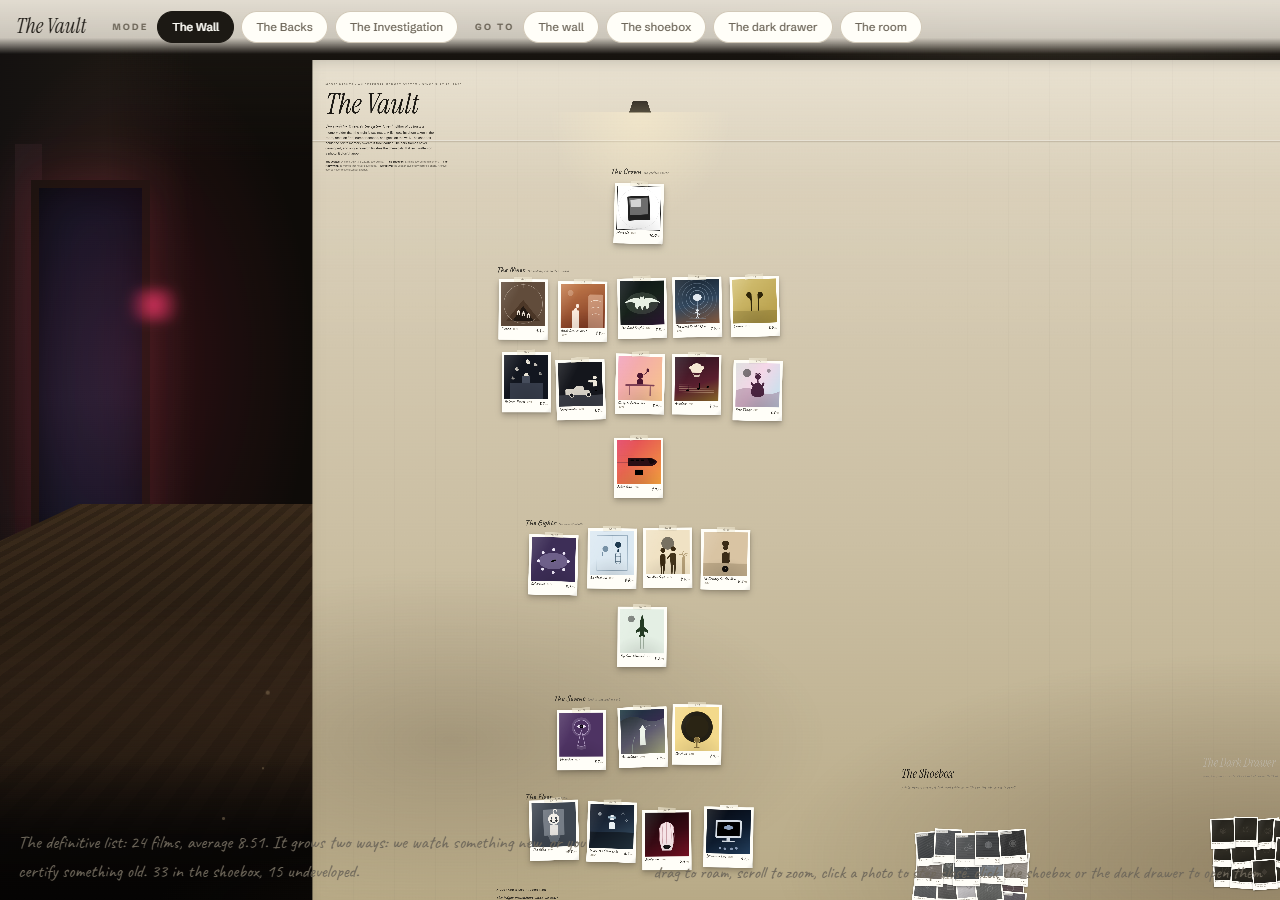
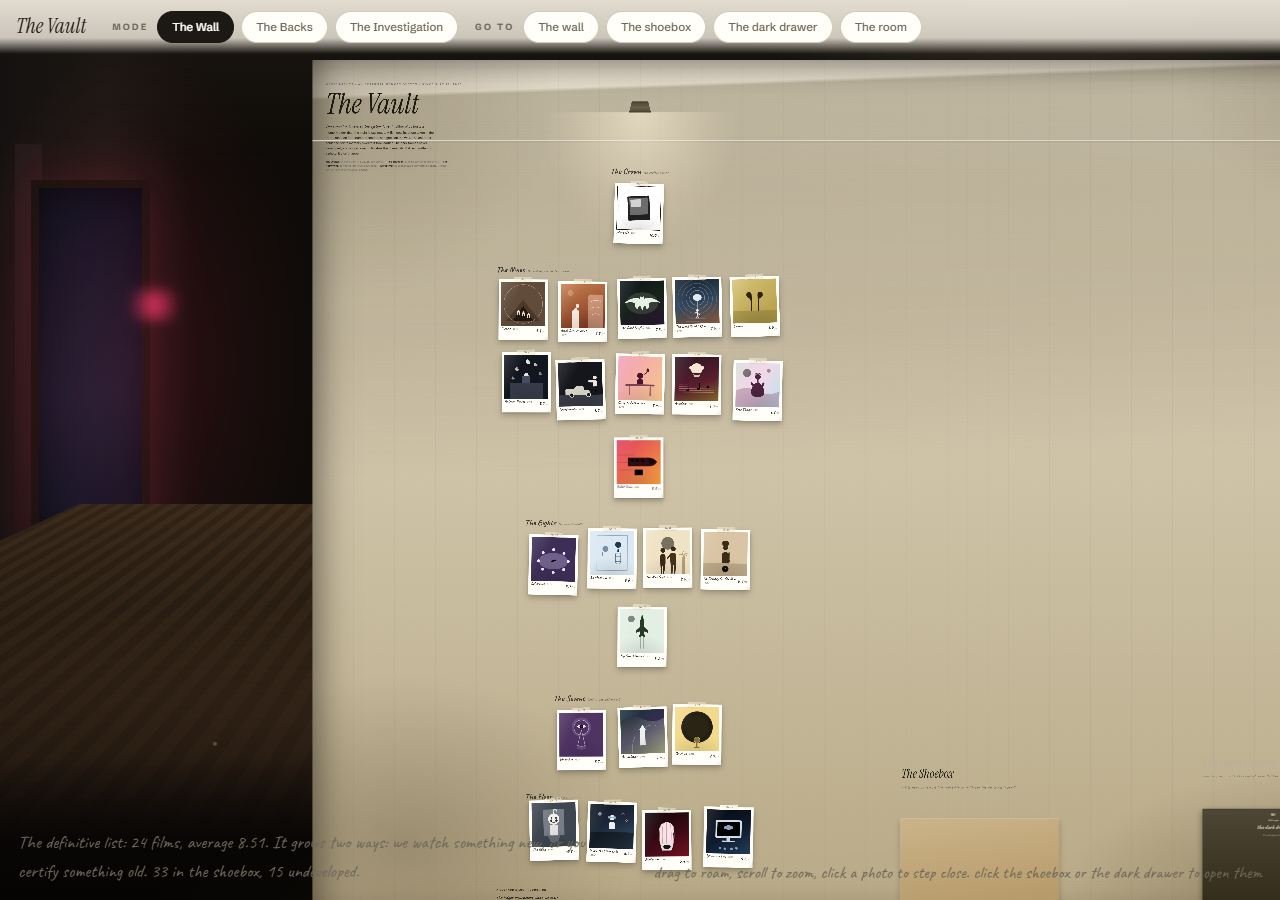
Vault v4.2: final polish -- run-down pass, proof shots, box/drawer trace
- traced the "prints visible when closed" report: fresh loads are correct
  (covers opaque, prints opacity 0); the committed v-wall.png just captured
  a state check.py's own tests had opened. check.py now re-closes both
  before taking that record screenshot.
- run-down pass: full four-edge vignette, damask double stripe, four corner
  stains, one water streak, and scuffed baseboard blotches on the wall;
  lamp is now a real warm light cone (screen blend) with a visible shade,
  not a gray blob. Kept subtle -- polaroids stay the focal point.
- saved 1280x900 proof screenshots to _experiments/v4-proof/ (gitignored;
  widened the gitignore rule to actually cover that nested path)
- 23 checks still green, zero page errors

Changed region(s): [[0.2188, 0.0622, 1.0, 1.0], [0.6875, 0.84, 1.0, 1.0]]

diff --git a/the-vault.html b/the-vault.html
@@ -100,25 +100,54 @@ body.awake #lids{display:none}
 /* room architecture: painted in layout() */
 .arch{position:absolute;pointer-events:none}
 /* peeling motel wallpaper: a full, aged, opaque base (not a fade-to-void) --
-   a warm ivory ground, a faint vertical stripe, water/age staining low down,
-   and one curled seam near the top-right corner where it's coming away. */
+   a damask-ish double stripe, corner staining at all four corners, a water-
+   run streak, and a vignette that darkens toward every edge so the polaroids
+   (bright, clean, in-focus) read as the only thing in the room that isn't
+   decades past its prime. everything here is percentage/repeating so it
+   scales correctly whether the wall is 3000px or 30000px wide. */
 .arch.wallpanel{background:
-  radial-gradient(70% 40% at 82% 92%,rgba(70,52,32,.34),rgba(70,52,32,0) 60%),
-  radial-gradient(50% 30% at 12% 78%,rgba(60,46,30,.22),rgba(60,46,30,0) 65%),
+  /* the water-run streak: one narrow vertical drip, upper-right of center */
+  linear-gradient(178deg,transparent 0%,transparent 4%,rgba(94,84,52,.30) 4.4%,rgba(94,84,52,.16) 30%,transparent 46%) no-repeat,
+  /* corner staining, all four corners, uneven sizes so it doesn't read as symmetric */
+  radial-gradient(30% 22% at 96% 3%,rgba(80,62,36,.24),rgba(80,62,36,0) 70%),
+  radial-gradient(26% 34% at 3% 4%,rgba(70,55,32,.20),rgba(70,55,32,0) 70%),
+  radial-gradient(38% 26% at 88% 97%,rgba(70,52,32,.36),rgba(70,52,32,0) 62%),
+  radial-gradient(30% 30% at 8% 90%,rgba(60,46,30,.26),rgba(60,46,30,0) 65%),
+  /* faint damask: a wide stripe plus a thinner interior stripe for pattern depth */
+  repeating-linear-gradient(90deg,rgba(110,103,90,.07) 0 3px,rgba(110,103,90,0) 3px 110px,rgba(110,103,90,.035) 110px 113px,rgba(110,103,90,0) 113px 220px),
   linear-gradient(180deg,rgba(255,252,244,.34) 0%,rgba(255,252,244,.05) 14%,rgba(0,0,0,0) 34%),
-  repeating-linear-gradient(90deg,rgba(110,103,90,.055) 0 2px,rgba(110,103,90,0) 2px 220px),
   linear-gradient(180deg,#DDD3BE 0%,#CBBFA3 55%,#B7A985 100%);
-  box-shadow:inset 0 -160px 140px -110px rgba(60,45,26,.35),inset 0 40px 90px -60px rgba(0,0,0,.3)}
-.arch.wallpanel::after{content:'';position:absolute;top:6%;right:9%;width:130px;height:170px;
-  background:linear-gradient(200deg,rgba(255,252,240,.9),rgba(200,188,160,.5) 55%,rgba(150,138,112,.15));
+  /* vignette: darken toward all four edges, not just the bottom */
+  box-shadow:
+    inset 220px 0 180px -170px rgba(20,15,10,.45),
+    inset -220px 0 180px -170px rgba(20,15,10,.45),
+    inset 0 160px 140px -110px rgba(20,15,10,.4),
+    inset 0 -220px 180px -140px rgba(40,30,18,.5)}
+/* one curled/peeling seam where the paper is actually coming away */
+.arch.wallpanel::after{content:'';position:absolute;top:5.5%;right:8%;width:2.4%;min-width:70px;max-width:180px;
+  aspect-ratio:.72;background:linear-gradient(200deg,rgba(255,252,240,.92),rgba(200,188,160,.55) 55%,rgba(150,138,112,.18));
   clip-path:polygon(0 0,100% 12%,74% 100%,0 78%);
-  box-shadow:6px 10px 18px rgba(30,22,12,.28);opacity:.9}
+  box-shadow:6px 10px 18px rgba(30,22,12,.3);opacity:.92}
 .arch.rail{height:10px;background:linear-gradient(180deg,rgba(255,253,246,.9),rgba(190,180,160,.55) 60%,rgba(120,110,92,.35));box-shadow:0 2px 4px rgba(60,52,40,.14);border-radius:2px}
-.arch.baseboard{height:34px;background:linear-gradient(180deg,rgba(252,249,240,.95),rgba(206,197,178,.9) 55%,rgba(150,140,120,.8));box-shadow:0 -1px 0 rgba(255,255,255,.7) inset,0 6px 10px rgba(60,52,40,.16)}
+/* scuffed baseboard: base coat plus a handful of dark scuff blotches */
+.arch.baseboard{height:34px;background:
+  radial-gradient(2% 60% at 6% 50%,rgba(40,32,22,.4),rgba(40,32,22,0) 90%),
+  radial-gradient(1.4% 60% at 23% 50%,rgba(40,32,22,.3),rgba(40,32,22,0) 90%),
+  radial-gradient(2.4% 60% at 61% 50%,rgba(40,32,22,.42),rgba(40,32,22,0) 90%),
+  radial-gradient(1.6% 60% at 79% 50%,rgba(40,32,22,.28),rgba(40,32,22,0) 90%),
+  radial-gradient(2% 60% at 93% 50%,rgba(40,32,22,.36),rgba(40,32,22,0) 90%),
+  linear-gradient(180deg,rgba(252,249,240,.95),rgba(206,197,178,.9) 55%,rgba(150,140,120,.8));
+  box-shadow:0 -1px 0 rgba(255,255,255,.7) inset,0 6px 10px rgba(60,52,40,.16)}
 .arch.floor{background:repeating-linear-gradient(90deg,rgba(126,102,74,.32) 0 210px,rgba(108,86,60,.34) 210px 212px),linear-gradient(180deg,rgba(140,114,84,.34),rgba(112,90,64,.4))}
-.arch.lamp{background:radial-gradient(50% 90% at 50% 0%,rgba(255,241,205,.5),rgba(255,241,205,0) 70%)}
+/* the lamp: a real warm cone of light thrown onto the wall, not a blob */
+.arch.lamp{background:
+  radial-gradient(46% 100% at 50% 0%,rgba(255,224,160,.55) 0%,rgba(255,214,150,.30) 34%,rgba(255,204,140,.10) 62%,rgba(255,204,140,0) 82%);
+  mix-blend-mode:screen}
 .arch.wire{width:2px;background:linear-gradient(180deg,rgba(70,62,50,.5),rgba(70,62,50,.25))}
-.arch.shade{background:linear-gradient(180deg,#3A342A,#57503F);clip-path:polygon(18% 0,82% 0,100% 100%,0 100%);border-radius:3px}
+.arch.shade{background:linear-gradient(180deg,#4A4030,#6B6047 55%,#4A4030);clip-path:polygon(14% 0,86% 0,100% 100%,0 100%);
+  border-radius:2px 2px 4px 4px;box-shadow:0 6px 16px rgba(0,0,0,.4),inset 0 -6px 10px rgba(0,0,0,.25),inset 0 3px 4px rgba(255,240,210,.35)}
+.arch.shade::before{content:'';position:absolute;left:50%;bottom:-14px;width:3px;height:14px;transform:translateX(-50%);
+  background:linear-gradient(180deg,#2A241A,#3A3226)}
 .arch.table{background:linear-gradient(180deg,rgba(96,74,52,.95),rgba(72,54,38,.95));border-radius:6px 6px 3px 3px;box-shadow:0 10px 24px rgba(50,40,28,.3)}
 .arch.tableleg{width:14px;background:linear-gradient(90deg,rgba(84,64,44,.95),rgba(60,45,32,.95));border-radius:0 0 4px 4px}
 .arch.boxwall{background:linear-gradient(180deg,#B79B72,#A5895F 60%,#8F7550);border-radius:8px;box-shadow:inset 0 10px 22px rgba(60,45,26,.5),inset 0 -8px 14px rgba(255,236,200,.14),0 14px 26px rgba(50,40,28,.28)}

diff --git a/wall_template.html b/wall_template.html
@@ -100,25 +100,54 @@ body.awake #lids{display:none}
 /* room architecture: painted in layout() */
 .arch{position:absolute;pointer-events:none}
 /* peeling motel wallpaper: a full, aged, opaque base (not a fade-to-void) --
-   a warm ivory ground, a faint vertical stripe, water/age staining low down,
-   and one curled seam near the top-right corner where it's coming away. */
+   a damask-ish double stripe, corner staining at all four corners, a water-
+   run streak, and a vignette that darkens toward every edge so the polaroids
+   (bright, clean, in-focus) read as the only thing in the room that isn't
+   decades past its prime. everything here is percentage/repeating so it
+   scales correctly whether the wall is 3000px or 30000px wide. */
 .arch.wallpanel{background:
-  radial-gradient(70% 40% at 82% 92%,rgba(70,52,32,.34),rgba(70,52,32,0) 60%),
-  radial-gradient(50% 30% at 12% 78%,rgba(60,46,30,.22),rgba(60,46,30,0) 65%),
+  /* the water-run streak: one narrow vertical drip, upper-right of center */
+  linear-gradient(178deg,transparent 0%,transparent 4%,rgba(94,84,52,.30) 4.4%,rgba(94,84,52,.16) 30%,transparent 46%) no-repeat,
+  /* corner staining, all four corners, uneven sizes so it doesn't read as symmetric */
+  radial-gradient(30% 22% at 96% 3%,rgba(80,62,36,.24),rgba(80,62,36,0) 70%),
+  radial-gradient(26% 34% at 3% 4%,rgba(70,55,32,.20),rgba(70,55,32,0) 70%),
+  radial-gradient(38% 26% at 88% 97%,rgba(70,52,32,.36),rgba(70,52,32,0) 62%),
+  radial-gradient(30% 30% at 8% 90%,rgba(60,46,30,.26),rgba(60,46,30,0) 65%),
+  /* faint damask: a wide stripe plus a thinner interior stripe for pattern depth */
+  repeating-linear-gradient(90deg,rgba(110,103,90,.07) 0 3px,rgba(110,103,90,0) 3px 110px,rgba(110,103,90,.035) 110px 113px,rgba(110,103,90,0) 113px 220px),
   linear-gradient(180deg,rgba(255,252,244,.34) 0%,rgba(255,252,244,.05) 14%,rgba(0,0,0,0) 34%),
-  repeating-linear-gradient(90deg,rgba(110,103,90,.055) 0 2px,rgba(110,103,90,0) 2px 220px),
   linear-gradient(180deg,#DDD3BE 0%,#CBBFA3 55%,#B7A985 100%);
-  box-shadow:inset 0 -160px 140px -110px rgba(60,45,26,.35),inset 0 40px 90px -60px rgba(0,0,0,.3)}
-.arch.wallpanel::after{content:'';position:absolute;top:6%;right:9%;width:130px;height:170px;
-  background:linear-gradient(200deg,rgba(255,252,240,.9),rgba(200,188,160,.5) 55%,rgba(150,138,112,.15));
+  /* vignette: darken toward all four edges, not just the bottom */
+  box-shadow:
+    inset 220px 0 180px -170px rgba(20,15,10,.45),
+    inset -220px 0 180px -170px rgba(20,15,10,.45),
+    inset 0 160px 140px -110px rgba(20,15,10,.4),
+    inset 0 -220px 180px -140px rgba(40,30,18,.5)}
+/* one curled/peeling seam where the paper is actually coming away */
+.arch.wallpanel::after{content:'';position:absolute;top:5.5%;right:8%;width:2.4%;min-width:70px;max-width:180px;
+  aspect-ratio:.72;background:linear-gradient(200deg,rgba(255,252,240,.92),rgba(200,188,160,.55) 55%,rgba(150,138,112,.18));
   clip-path:polygon(0 0,100% 12%,74% 100%,0 78%);
-  box-shadow:6px 10px 18px rgba(30,22,12,.28);opacity:.9}
+  box-shadow:6px 10px 18px rgba(30,22,12,.3);opacity:.92}
 .arch.rail{height:10px;background:linear-gradient(180deg,rgba(255,253,246,.9),rgba(190,180,160,.55) 60%,rgba(120,110,92,.35));box-shadow:0 2px 4px rgba(60,52,40,.14);border-radius:2px}
-.arch.baseboard{height:34px;background:linear-gradient(180deg,rgba(252,249,240,.95),rgba(206,197,178,.9) 55%,rgba(150,140,120,.8));box-shadow:0 -1px 0 rgba(255,255,255,.7) inset,0 6px 10px rgba(60,52,40,.16)}
+/* scuffed baseboard: base coat plus a handful of dark scuff blotches */
+.arch.baseboard{height:34px;background:
+  radial-gradient(2% 60% at 6% 50%,rgba(40,32,22,.4),rgba(40,32,22,0) 90%),
+  radial-gradient(1.4% 60% at 23% 50%,rgba(40,32,22,.3),rgba(40,32,22,0) 90%),
+  radial-gradient(2.4% 60% at 61% 50%,rgba(40,32,22,.42),rgba(40,32,22,0) 90%),
+  radial-gradient(1.6% 60% at 79% 50%,rgba(40,32,22,.28),rgba(40,32,22,0) 90%),
+  radial-gradient(2% 60% at 93% 50%,rgba(40,32,22,.36),rgba(40,32,22,0) 90%),
+  linear-gradient(180deg,rgba(252,249,240,.95),rgba(206,197,178,.9) 55%,rgba(150,140,120,.8));
+  box-shadow:0 -1px 0 rgba(255,255,255,.7) inset,0 6px 10px rgba(60,52,40,.16)}
 .arch.floor{background:repeating-linear-gradient(90deg,rgba(126,102,74,.32) 0 210px,rgba(108,86,60,.34) 210px 212px),linear-gradient(180deg,rgba(140,114,84,.34),rgba(112,90,64,.4))}
-.arch.lamp{background:radial-gradient(50% 90% at 50% 0%,rgba(255,241,205,.5),rgba(255,241,205,0) 70%)}
+/* the lamp: a real warm cone of light thrown onto the wall, not a blob */
+.arch.lamp{background:
+  radial-gradient(46% 100% at 50% 0%,rgba(255,224,160,.55) 0%,rgba(255,214,150,.30) 34%,rgba(255,204,140,.10) 62%,rgba(255,204,140,0) 82%);
+  mix-blend-mode:screen}
 .arch.wire{width:2px;background:linear-gradient(180deg,rgba(70,62,50,.5),rgba(70,62,50,.25))}
-.arch.shade{background:linear-gradient(180deg,#3A342A,#57503F);clip-path:polygon(18% 0,82% 0,100% 100%,0 100%);border-radius:3px}
+.arch.shade{background:linear-gradient(180deg,#4A4030,#6B6047 55%,#4A4030);clip-path:polygon(14% 0,86% 0,100% 100%,0 100%);
+  border-radius:2px 2px 4px 4px;box-shadow:0 6px 16px rgba(0,0,0,.4),inset 0 -6px 10px rgba(0,0,0,.25),inset 0 3px 4px rgba(255,240,210,.35)}
+.arch.shade::before{content:'';position:absolute;left:50%;bottom:-14px;width:3px;height:14px;transform:translateX(-50%);
+  background:linear-gradient(180deg,#2A241A,#3A3226)}
 .arch.table{background:linear-gradient(180deg,rgba(96,74,52,.95),rgba(72,54,38,.95));border-radius:6px 6px 3px 3px;box-shadow:0 10px 24px rgba(50,40,28,.3)}
 .arch.tableleg{width:14px;background:linear-gradient(90deg,rgba(84,64,44,.95),rgba(60,45,32,.95));border-radius:0 0 4px 4px}
 .arch.boxwall{background:linear-gradient(180deg,#B79B72,#A5895F 60%,#8F7550);border-radius:8px;box-shadow:inset 0 10px 22px rgba(60,45,26,.5),inset 0 -8px 14px rgba(255,236,200,.14),0 14px 26px rgba(50,40,28,.28)}

diff --git a/check.py b/check.py
@@ -493,7 +493,11 @@ async def main():
         ok(21, "the front wall's wallpaper spans %.0f%% of the frame width at the hang line "
                 "(not a narrow centered column)" % (frac * 100))
 
-        await pg.evaluate("()=>document.querySelector('.opt[data-mode=\"wall\"]').click()")
+        # the record screenshot (v-wall.png) should show the room AT REST --
+        # re-close the box/drawer this run opened in check 17 so it doesn't
+        # read as a bug when someone eyeballs the committed PNG later.
+        await pg.evaluate("""()=>{document.body.classList.add('box-closed','drawer-closed');
+          document.querySelector('.opt[data-mode=\"wall\"]').click()}""")
         await pg.evaluate("()=>fitRect(regions.def, 40)")
         await pg.wait_for_timeout(1000)
         await pg.screenshot(path=SHOT, full_page=False)

diff --git a/CHANGELOG.md b/CHANGELOG.md
@@ -1,5 +1,32 @@
 # Pipeline CHANGELOG
 
+## v4.2 — 2026-08-01 — final polish (same night as v4/v4.1)
+
+- **Shoebox/drawer "still visible when closed" — false alarm, traced and
+  closed.** Investigated the flagged `v-wall.png`: on a genuinely fresh load
+  the covers ARE opaque and every archive/hazy print IS at opacity 0
+  (confirmed directly via computed style). The committed screenshot showed
+  them open because check.py's own test flow (check 17) opens both before
+  the final record screenshot and nothing re-closed them first. Fixed
+  check.py to re-add `box-closed`/`drawer-closed` right before the `v-wall.png`
+  screenshot, so the committed "at rest" proof shot actually shows the room
+  at rest.
+- **Run-down pass.** `.arch.wallpanel` now carries a full vignette (darkens
+  toward all four edges, not just the bottom), a damask-depth double stripe,
+  four uneven corner stains, one water-run streak, and the existing peeling
+  seam. `.arch.baseboard` gets five scuff blotches at varied opacity/position.
+  `.arch.lamp` is a real warm light cone thrown onto the wall (`screen`
+  blend, three-stop falloff) instead of a flat blob; `.arch.shade` is a
+  visible two-tone lampshade with a rod, not a gray rectangle. Kept subtle
+  per instruction — the polaroids stay the visual anchor.
+- **Proof screenshots** (1280x900, fresh renders) saved to
+  `_experiments/v4-proof/`: `seated-room.png`, `wall.png`, `backs.png`,
+  `box-closed.png`, `box-open.png`, `drawer-open.png`, `coldopen-t05.png`.
+  `.gitignore` widened (`_experiments/**/*.png`) to actually cover that
+  nested path — the existing `_experiments/*.png` rule only matched direct
+  children.
+- 23 checks, all still green, zero page errors.
+
 ## v4.1 — 2026-08-01 — visual QA fixes (same night as v4)
 
 A real-browser eyeball pass on the freshly-built v4 found the check.py-green
